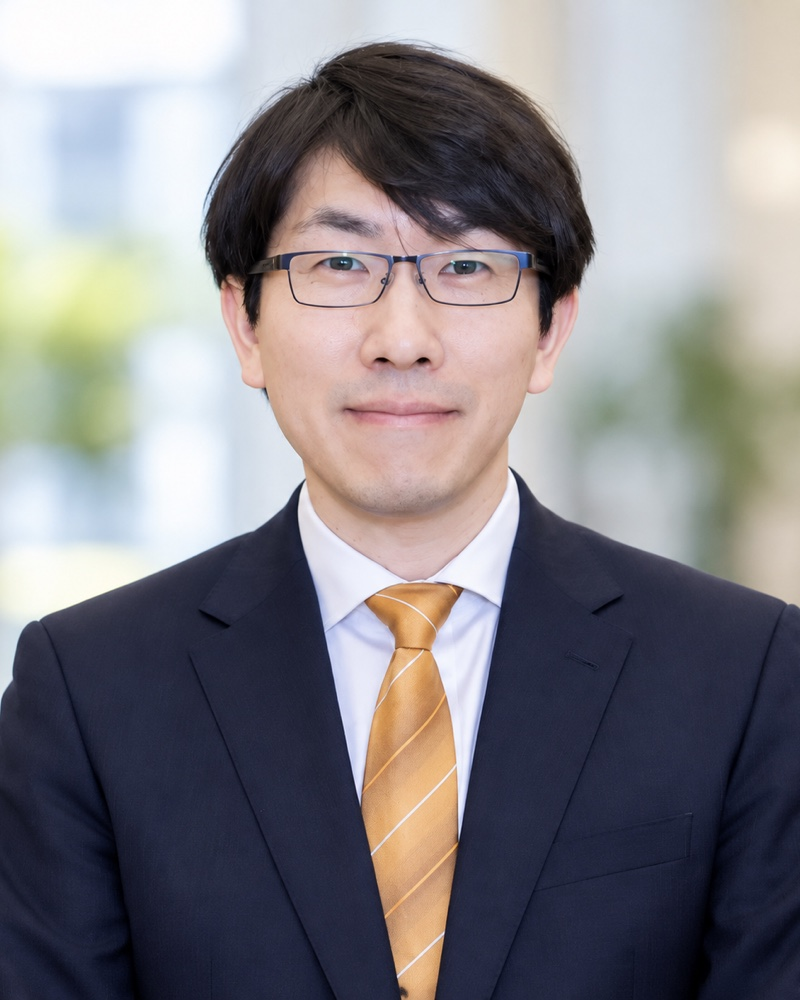
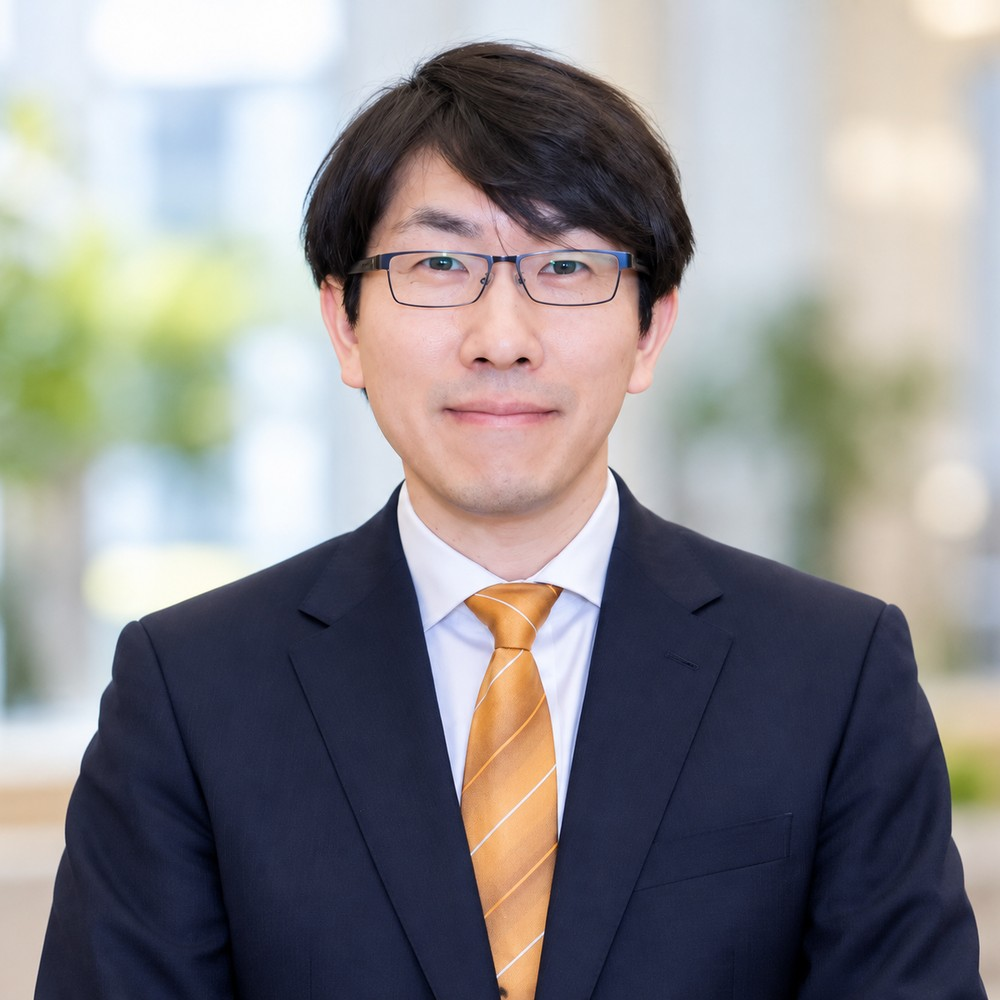
Add files via upload

diff --git a/index.html b/index.html
@@ -4,12 +4,12 @@
 <meta charset="utf-8">
 <meta name="viewport" content="width=device-width, initial-scale=1, viewport-fit=cover">
 <title>川西研究室 | Kawanishi Lab — 昭和医科大学 医学部 解剖学講座 顕微解剖学部門</title>
-<meta name="description" content="昭和医科大学 医学部 解剖学講座 顕微解剖学部門（川西研究室）。空間組織生物学を軸に、形態学・空間オミクス・分子細胞生物学を組み合わせ、腫瘍・腎疾患・炎症性疾患の組織微小環境を研究しています。">
+<meta name="description" content="昭和医科大学 医学部 解剖学講座 顕微解剖学部門（川西研究室）。空間生物学を軸に、形態学・空間オミクス・分子細胞生物学を組み合わせ、腫瘍・腎疾患・炎症性疾患の組織微小環境を研究しています。">
 <link rel="canonical" href="https://showa-microanatomy.jp/">
 <meta property="og:type" content="website">
 <meta property="og:site_name" content="Kawanishi Lab">
 <meta property="og:title" content="川西研究室 | Kawanishi Lab">
-<meta property="og:description" content="昭和医科大学 医学部 解剖学講座 顕微解剖学部門。組織の空間から、病態を読み解く。">
+<meta property="og:description" content="昭和医科大学 医学部 解剖学講座 顕微解剖学部門。組織形態と分子機構から病態を読み解く。">
 <meta property="og:url" content="https://showa-microanatomy.jp/">
 <meta property="og:image" content="https://showa-microanatomy.jp/images/events/2025-04-welcome-1.jpg">
 <meta name="twitter:card" content="summary_large_image">
@@ -217,7 +217,7 @@ h1, h2, h3, h4 { font-family: 'Libre Baskerville', Georgia, serif; line-height: 
    ════════════════════════════════════════ */
 .hero {
   /* deep navy, very slightly lighter toward the bottom to soften the edge into the white page */
-  background: linear-gradient(180deg, #0B1D33 0%, #0E2139 70%, #12283F 100%);
+  background: linear-gradient(180deg, #1C3A66 0%, #1F3E6B 70%, #22426E 100%);
   color: #fff;
   padding: 72px 24px 80px;
   position: relative;
@@ -239,7 +239,45 @@ h1, h2, h3, h4 { font-family: 'Libre Baskerville', Georgia, serif; line-height: 
   margin: 0 auto;
   text-align: center;
   position: relative;
-  z-index: 1;
+  z-index: 2;
+}
+.hero::before { z-index: 1 }
+.hero__bg {
+  position: absolute; inset: 0; z-index: 0; pointer-events: none;
+  /* fade the images out toward the centre so the text stays on plain navy */
+  -webkit-mask-image: radial-gradient(ellipse 46% 62% at 50% 50%, transparent 0%, transparent 35%, #000 100%);
+          mask-image: radial-gradient(ellipse 46% 62% at 50% 50%, transparent 0%, transparent 35%, #000 100%);
+}
+.hero__slide {
+  position: absolute; inset: 0;
+  background-size: cover; background-position: center;
+  opacity: 0;
+  animation: heroFade 40s ease-in-out infinite;
+}
+.hero__slide:nth-child(2) { animation-delay: 10s }
+.hero__slide:nth-child(3) { animation-delay: 20s }
+.hero__slide:nth-child(4) { animation-delay: 30s }
+/* 3D culture: shown near native scale on both sides (sharper than stretching it across the hero) */
+.hero__slide--pair { background-size: auto 70%, auto 70%; background-position: left 3% center, right 3% center; background-repeat: no-repeat; animation-name: heroFadePair }
+/* glomerulus: TEM (left) larger and nearer the centre; LVSEM (right) at the standard size/position */
+.hero__slide--pair:nth-child(1) { background-size: auto 84%, auto 70%; background-position: left 16% center, right 3% center }
+@keyframes heroFadePair {
+  0%    { opacity: 0 }
+  7.5%  { opacity: .55 }
+  22.5% { opacity: .55 }
+  30%   { opacity: 0 }
+  100%  { opacity: 0 }
+}
+@keyframes heroFade {
+  0%   { opacity: 0 }
+  7.5%  { opacity: .38 }
+  22.5% { opacity: .38 }
+  30%   { opacity: 0 }
+  100% { opacity: 0 }
+}
+@media (prefers-reduced-motion: reduce) {
+  .hero__slide { animation: none }
+  .hero__slide:first-child { opacity: .12 }
 }
 .hero__kicker {
   display: inline-block;
@@ -313,7 +351,7 @@ h1, h2, h3, h4 { font-family: 'Libre Baskerville', Georgia, serif; line-height: 
 }
 .btn--outline:hover { background: rgba(255,255,255,.08) }
 .hero .btn--primary, .page-hero .btn--primary { background: #2878C8 }
-.hero .btn--outline { color: #D7E3F1; border-color: #6F879F }
+.hero .btn--outline { color: #D7E3F1; border-color: #8299B1 }
 
 /* ════════════════════════════════════════
    SECTION shared
@@ -528,6 +566,9 @@ body.lang-ja { word-break: auto-phrase }
   margin-top: 8px;
 }
 .pub-link svg { flex-shrink: 0 }
+.pub-project { font-size: 12px; color: var(--fg-dim); margin-top: 8px; line-height: 1.6 }
+.pub-project__fund { opacity: .8; font-size: 11.5px }
+.pub-project .ja { font-family: 'Noto Sans JP', sans-serif }
 .pub-note {
   margin-top: 24px;
   font-size: 13px;
@@ -908,7 +949,7 @@ body:not([data-page="lablife"]) .page-lablife { display: none }
    PEOPLE
    ════════════════════════════════════════ */
 .page-hero {
-  background: linear-gradient(180deg, #0B1D33 0%, #0E2139 70%, #12283F 100%);
+  background: linear-gradient(180deg, #1C3A66 0%, #1F3E6B 70%, #22426E 100%);
   color: #fff;
   padding: 56px 0 52px;
   position: relative;
@@ -991,6 +1032,8 @@ body:not([data-page="lablife"]) .page-lablife { display: none }
   padding: 32px;
 }
 .pi-card .person-photo__initials { font-size: 48px }
+.pi-card .person-photo { aspect-ratio: 1 / 1 }
+.pi-card .person-photo img { object-position: center }
 .pi-role {
   font-size: 11px; font-weight: 600; letter-spacing: .14em;
   text-transform: uppercase; color: var(--accent); margin-bottom: 10px;
@@ -1272,19 +1315,26 @@ body:not([data-page="lablife"]) .page-lablife { display: none }
      HERO
      ══════════════════════════════════════════ -->
 <section class="hero" id="top">
+  <!-- Background research images: slow crossfade, kept faint and masked away from the centre text -->
+  <div class="hero__bg" aria-hidden="true">
+    <div class="hero__slide hero__slide--pair" style="background-image:url('/images/hero/hero-1tem.webp?v=5'),url('/images/hero/hero-1l.webp?v=5')"></div>
+    <div class="hero__slide" style="background-image:url('/images/hero/hero-2.webp?v=5')"></div>
+    <div class="hero__slide" style="background-image:url('/images/hero/hero-3.webp?v=5')"></div>
+    <div class="hero__slide hero__slide--pair" style="background-image:url('/images/hero/hero-4.webp?v=5'),url('/images/hero/hero-4r.webp?v=5')"></div>
+  </div>
   <div class="hero__inner">
-    <span class="hero__kicker ja">昭和医科大学 医学部 解剖学講座 顕微解剖学部門</span>
-    <span class="hero__kicker en">Showa Medical University School of Medicine · Department of Anatomy</span>
+    <span class="hero__kicker ja">昭和医科大学 医学部</span>
+    <span class="hero__kicker en">Showa Medical University · School of Medicine</span>
 
     <h1 class="hero__title">Kawanishi Lab</h1>
     <p class="hero__subtitle-ja ja">川西研究室</p>
 
-    <p class="hero__dept ja">昭和医科大学 医学部 解剖学講座 顕微解剖学部門<br>〒142-8555 東京都品川区旗の台1-5-8</p>
-    <p class="hero__dept en">Department of Anatomy<br>Showa Medical University School of Medicine, Tokyo, Japan</p>
+    <p class="hero__dept ja">解剖学講座 顕微解剖学部門<br>〒142-8555 東京都品川区旗の台1-5-8</p>
+    <p class="hero__dept en">Department of Anatomy<br>1-5-8 Hatanodai, Shinagawa-ku, Tokyo, Japan</p>
 
     <p class="hero__tagline">
-      <span class="ja" style="font-family:'Noto Sans JP',sans-serif;font-weight:300">「組織の空間から、病態を読み解く。」</span>
-      <span class="en">"Decoding disease through tissue spatial biology."</span>
+      <span class="ja" style="font-family:'Noto Sans JP',sans-serif;font-weight:300">組織形態と分子機構から病態を読み解く</span>
+      <span class="en">Decoding disease through tissue morphology and molecular mechanisms</span>
     </p>
 
     <div class="hero__cta">
@@ -1304,12 +1354,12 @@ body:not([data-page="lablife"]) .page-lablife { display: none }
     <div class="section__header">
       <p class="section__eyebrow ja">研究室について</p>
       <p class="section__eyebrow en">About the Lab</p>
-      <h2 class="section__title-ja ja">空間組織生物学で、病態に迫る</h2>
-      <h2 class="section__title en">Spatial Tissue Biology of Disease</h2>
+      <h2 class="section__title-ja ja">空間生物学で、病態に迫る</h2>
+      <h2 class="section__title en">Spatial Biology of Disease</h2>
     </div>
     <div class="concept">
-      <p class="ja">私たちの体の臓器や組織は、さまざまな種類の細胞が集まり、互いに<span class="nw">関わり合う</span>ことで<span class="nw">成り立っています</span>。病気になると、こうした細胞の状態や<span class="nw">位置関係</span>、細胞同士の<span class="nw">関わり方</span>が<span class="nw">変化します</span>。私たちは、「どの細胞が、どこにいて、何をしているのか」を明らかにする<strong><span class="nw">空間組織生物学</span><span class="nw">（Spatial Tissue Biology）</span></strong>を軸に<span class="nw">研究を進めています</span>。<span class="nw">顕微鏡による</span><span class="nw">形態観察</span>、<span class="nw">空間オミクス</span>、<span class="nw">分子・細胞生物学</span>を<span class="nw">組み合わせ</span>、<span class="nw">組織の構造</span>と<span class="nw">細胞の働き</span>を<span class="nw">一体として</span><span class="nw">捉えることを</span><span class="nw">目指します</span>。<span class="nw">腫瘍</span>、<span class="nw">腎疾患</span>、<span class="nw">炎症性疾患</span>を<span class="nw">主な対象</span>に、細胞同士の関わりを<span class="nw">組織の中で</span><span class="nw">読み解く</span>ことで、病気がどのように<span class="nw">生じ、</span><span class="nw">進行するのか</span>を<span class="nw">理解し</span>、<span class="nw">新たな治療</span>に<span class="nw">つながる</span><span class="nw">手がかり</span>を見つけたいと<span class="nw">考えています</span>。</p>
-      <p class="en">The organs and tissues of our bodies are built from many different kinds of cells that interact closely with one another. In disease, the states of these cells, their positions, and the way they communicate all change. Our research centers on <strong>spatial tissue biology</strong>: understanding which cells are present, where they are, and what they are doing. By combining microscopic morphology, spatial omics, and molecular and cell biology, we aim to see tissue structure and cellular function as a single, integrated picture. Focusing on tumors, kidney disease, and inflammatory disease, we study how cells interact within tissue in order to understand how disease arises and progresses, and to find clues that may lead to new therapies.</p>
+      <p class="ja">私たちの体の臓器や組織は、さまざまな種類の細胞が集まり、互いに<span class="nw">関わり合う</span>ことで<span class="nw">成り立っています</span>。病気になると、こうした細胞の状態や<span class="nw">位置関係</span>、細胞同士の<span class="nw">関わり方</span>が<span class="nw">変化します</span>。私たちは、「どの細胞が、どこにいて、何をしているのか」を明らかにする<strong><span class="nw">空間生物学</span><span class="nw">（Spatial Biology）</span></strong>を軸に<span class="nw">研究を進めています</span>。<span class="nw">顕微鏡による</span><span class="nw">形態観察</span>、<span class="nw">空間オミクス</span>、<span class="nw">分子・細胞生物学</span>を<span class="nw">組み合わせ</span>、<span class="nw">組織の構造</span>と<span class="nw">細胞の働き</span>を<span class="nw">一体として</span><span class="nw">捉えることを</span><span class="nw">目指します</span>。<span class="nw">腫瘍</span>、<span class="nw">腎疾患</span>、<span class="nw">炎症性疾患</span>を<span class="nw">主な対象</span>に、細胞同士の関わりを<span class="nw">組織の中で</span><span class="nw">読み解く</span>ことで、病気がどのように<span class="nw">生じ、</span><span class="nw">進行するのか</span>を<span class="nw">理解し</span>、<span class="nw">新たな治療</span>に<span class="nw">つながる</span><span class="nw">手がかり</span>を見つけたいと<span class="nw">考えています</span>。</p>
+      <p class="en">The organs and tissues of our bodies are built from many different kinds of cells that interact closely with one another. In disease, the states of these cells, their positions, and the way they communicate all change. Our research centers on <strong>spatial biology</strong>: understanding which cells are present, where they are, and what they are doing. By combining microscopic morphology, spatial omics, and molecular and cell biology, we aim to see tissue structure and cellular function as a single, integrated picture. Focusing on tumors, kidney disease, and inflammatory disease, we study how cells interact within tissue in order to understand how disease arises and progresses, and to find clues that may lead to new therapies.</p>
     </div>
 
     <!-- Three pillars -->
@@ -1383,8 +1433,8 @@ body:not([data-page="lablife"]) .page-lablife { display: none }
         <h3 class="area-title en">Tissue Microenvironment &amp; Spatial Biology</h3>
         <h3 class="area-title-ja ja">組織微小環境と空間生物学</h3>
         <p class="area-body">
-          <span class="en">Using spatial transcriptomics (Xenium In Situ) and multiplex immunostaining (PhenoCycler), we map cell states and spatial interactions within tissue. We are investigating how immune cells and stromal components organize the tumor microenvironment across multiple cancer types, and extending our approach to inflammatory conditions to understand shared and distinct cellular architectures.</span>
-          <span class="ja">空間トランスクリプトミクス（Xenium In Situ）・多重免疫染色（PhenoCycler）を用いて、組織内の細胞状態と空間的相互作用を解析します。複数のがん種にわたる腫瘍微小環境の細胞構築を調べるとともに、炎症性疾患にもアプローチを拡張し、共通・固有の細胞空間構造の解明に取り組んでいます。</span>
+          <span class="en">We map cell states and spatial interactions within tissue by combining spatial transcriptomics, multiplex immunostaining, and other spatial approaches, choosing the platform that best fits each question (for example, Xenium In Situ and PhenoCycler). We are investigating how immune cells and stromal components organize the tumor microenvironment across multiple cancer types, and extending our approach to inflammatory conditions to understand shared and distinct cellular architectures.</span>
+          <span class="ja">空間トランスクリプトミクスや多重免疫染色をはじめとする空間解析技術を、研究の目的に応じて組み合わせ（Xenium In Situ、PhenoCycler など）、組織内の細胞状態と空間的相互作用を解析しています。複数のがん種にわたる腫瘍微小環境の細胞構築を調べるとともに、炎症性疾患にもアプローチを広げ、疾患に共通する、あるいは固有の細胞空間構造の解明に取り組んでいます。</span>
         </p>
         <div class="area-tags">
           <span class="tag tag--blue">Xenium In Situ</span>
@@ -1445,8 +1495,8 @@ body:not([data-page="lablife"]) .page-lablife { display: none }
       <h2 class="section__title ja">発表論文（抜粋）</h2>
       <h2 class="section__title en">Recent Publications</h2>
       <p class="section__lead">
-        <span class="en">Selected recent papers. <span style="color:var(--glow);font-weight:600">Featured</span> labels highlight our key contributions to spatial tissue biology.</span>
-        <span class="ja"><span style="color:var(--glow);font-weight:600">注目論文</span> は空間組織生物学における主要成果です。</span>
+        <span class="en">Selected recent papers. <span style="color:var(--glow);font-weight:600">Featured</span> labels highlight our key contributions to spatial biology.</span>
+        <span class="ja"><span style="color:var(--glow);font-weight:600">注目論文</span> は空間生物学における主要成果です。</span>
       </p>
     </div>
 
@@ -1469,10 +1519,20 @@ body:not([data-page="lablife"]) .page-lablife { display: none }
             Dang Cao TL, <strong>Kawanishi K*</strong>, Hayashi M, Nakashima M, Komohara Y, Yamashita Y.
             <em>Proc Natl Acad Sci USA</em>. 2025. (*Corresponding author)
           </p>
-          <a href="https://doi.org/10.1073/pnas.2425024122" class="pub-link" target="_blank" rel="noopener">
-            <svg width="12" height="12" viewBox="0 0 12 12" fill="none"><path d="M2 10L10 2M10 2H5M10 2V7" stroke="currentColor" stroke-width="1.5" stroke-linecap="round"/></svg>
-            DOI: 10.1073/pnas.2425024122
-          </a>
+          <div style="display:flex;gap:12px;flex-wrap:wrap;margin-top:8px">
+            <a href="https://doi.org/10.1073/pnas.2425024122" class="pub-link" target="_blank" rel="noopener">
+              <svg width="12" height="12" viewBox="0 0 12 12" fill="none"><path d="M2 10L10 2M10 2H5M10 2V7" stroke="currentColor" stroke-width="1.5" stroke-linecap="round"/></svg>
+              DOI: 10.1073/pnas.2425024122
+            </a>
+            <a href="https://www.tsukuba.ac.jp/journal/medicine-health/20250902040000.html" class="pub-link" target="_blank" rel="noopener">
+              <svg width="12" height="12" viewBox="0 0 12 12" fill="none"><path d="M2 10L10 2M10 2H5M10 2V7" stroke="currentColor" stroke-width="1.5" stroke-linecap="round"/></svg>
+              <span class="ja">筑波大学 プレスリリース「乳がん転移を導く『がん細胞-免疫細胞間シグナル』を解明」</span><span class="en">University of Tsukuba Press Release</span>
+            </a>
+          </div>
+          <p class="pub-project">
+            <span class="ja">関連研究課題：癌細胞の代謝リプログラミング依存的な糖鎖修飾と癌微小環境応答の解明<span class="pub-project__fund">（日本学術振興会 科研費 基盤研究(B)、2024.04–2028.03）</span></span>
+            <span class="en">Related research project: Metabolic reprogramming–dependent glycosylation in cancer cells and the response of the tumor microenvironment<span class="pub-project__fund"> (JSPS KAKENHI Grant-in-Aid for Scientific Research (B), 2024.04–2028.03)</span></span>
+          </p>
         </div>
       </div>
 
@@ -1539,7 +1599,7 @@ body:not([data-page="lablife"]) .page-lablife { display: none }
             <span class="pub-journal-name">American Journal of Pathology</span>
           </div>
           <p class="pub-title">
-            <a href="https://researchmap.jp/kukawanishi_2018/published_papers/48271571" target="_blank" rel="noopener">
+            <a href="https://doi.org/10.1016/j.ajpath.2024.10.004" target="_blank" rel="noopener">
               A novel deep learning approach for analyzing glomerular basement membrane lesions in a mouse model of X-linked Alport syndrome
             </a>
           </p>
@@ -1547,10 +1607,16 @@ body:not([data-page="lablife"]) .page-lablife { display: none }
             <strong>Kawanishi K*</strong>, Baba M, Kobayashi R, Hori R, Hashikami K, Danbayashi K, Iwachido T, Kato M.
             <em>Am J Pathol</em>. 2024 Oct 18. (*First and corresponding author)
           </p>
-          <a href="https://researchmap.jp/kukawanishi_2018/published_papers/48271571" class="pub-link" target="_blank" rel="noopener">
-            <svg width="12" height="12" viewBox="0 0 12 12" fill="none"><path d="M2 10L10 2M10 2H5M10 2V7" stroke="currentColor" stroke-width="1.5" stroke-linecap="round"/></svg>
-            researchmap
-          </a>
+          <div style="display:flex;gap:12px;flex-wrap:wrap;margin-top:8px">
+            <a href="https://doi.org/10.1016/j.ajpath.2024.10.004" class="pub-link" target="_blank" rel="noopener">
+              <svg width="12" height="12" viewBox="0 0 12 12" fill="none"><path d="M2 10L10 2M10 2H5M10 2V7" stroke="currentColor" stroke-width="1.5" stroke-linecap="round"/></svg>
+              DOI: 10.1016/j.ajpath.2024.10.004
+            </a>
+            <a href="https://www.tsukuba.ac.jp/journal/medicine-health/20241024140000.html" class="pub-link" target="_blank" rel="noopener">
+              <svg width="12" height="12" viewBox="0 0 12 12" fill="none"><path d="M2 10L10 2M10 2H5M10 2V7" stroke="currentColor" stroke-width="1.5" stroke-linecap="round"/></svg>
+              <span class="ja">筑波大学 プレスリリース</span><span class="en">University of Tsukuba Press Release</span>
+            </a>
+          </div>
         </div>
       </div>
     </div>
@@ -1783,8 +1849,8 @@ body:not([data-page="lablife"]) .page-lablife { display: none }
         <div>
           <span class="news-badge news-badge--award">Award</span>
           <div class="news-text">
-            <span class="ja">川西邦夫が <a href="https://researchmap.jp/kukawanishi_2018/awards/51614818" target="_blank" rel="noopener">山中賞</a>（メディカルLVSEM研究会）を受賞しました。</span>
-            <span class="en">Kunio Kawanishi received the <a href="https://researchmap.jp/kukawanishi_2018/awards/51614818" target="_blank" rel="noopener">Yamanaka Award</a> from the Medical LVSEM Research Society.</span>
+            <span class="ja">川西邦夫が <a href="https://lv-sem.org/940/" target="_blank" rel="noopener">山中賞</a>（メディカルLVSEM研究会）を受賞しました。</span>
+            <span class="en">Kunio Kawanishi received the <a href="https://lv-sem.org/940/" target="_blank" rel="noopener">Yamanaka Award</a> from the Medical LVSEM Research Society.</span>
           </div>
         </div>
       </div>
@@ -2027,7 +2093,7 @@ const PEOPLE_DATA = {
     positionEn: 'Professor',
     affiliationJa: '昭和医科大学 医学部 解剖学講座 顕微解剖学部門',
     affiliationEn: 'Department of Anatomy, Showa Medical University School of Medicine',
-    photo: 'kunio-kawanishi.jpg',
+    photo: 'kunio-kawanishi.jpg?v=2',
     interests: [
       'Tissue Microenvironment',
       'Spatial Biology',
@@ -2063,6 +2129,9 @@ const PEOPLE_DATA = {
       { labelJa: '昭和医科大学 研究者情報', labelEn: 'Showa Medical University Profile', url: 'https://rira.showa-u.ac.jp/profile/ja.a255c80ecb43b09a5471fd186680f595.html' },
       { label: 'ORCID', url: 'https://orcid.org/0000-0003-3502-3467' },
       { label: 'PubMed', url: 'https://pubmed.ncbi.nlm.nih.gov/?term=Kawanishi+Kunio%5BFull+Author+Name%5D&sort=date' },
+      { labelJa: '日本腎臓学会（評議員）', labelEn: 'Japanese Society of Nephrology (Councilor)', url: 'https://jsn.or.jp' },
+      { labelJa: '日本病理学会（学術評議員）', labelEn: 'Japanese Society of Pathology (Academic Councilor)', url: 'https://pathology.or.jp' },
+      { labelJa: '日本解剖学会（代議員）', labelEn: 'Japanese Association of Anatomists (Delegate)', url: 'https://www.anatomy.or.jp' },
       { labelJa: 'メディカルLVSEM研究会（世話人）', labelEn: 'Medical LVSEM Research Society (Steering Committee)', url: 'https://lv-sem.org' }
     ]
   },
@@ -2124,7 +2193,7 @@ const PEOPLE_DATA = {
       nameEn: 'Kanako Sugo',
       positionJa: '大学院生',
       positionEn: 'Graduate Student',
-      photo: 'kanako-sugo.jpg',
+      photo: 'kanako-sugo.jpg?v=2',
       interests: []
     },
     {
